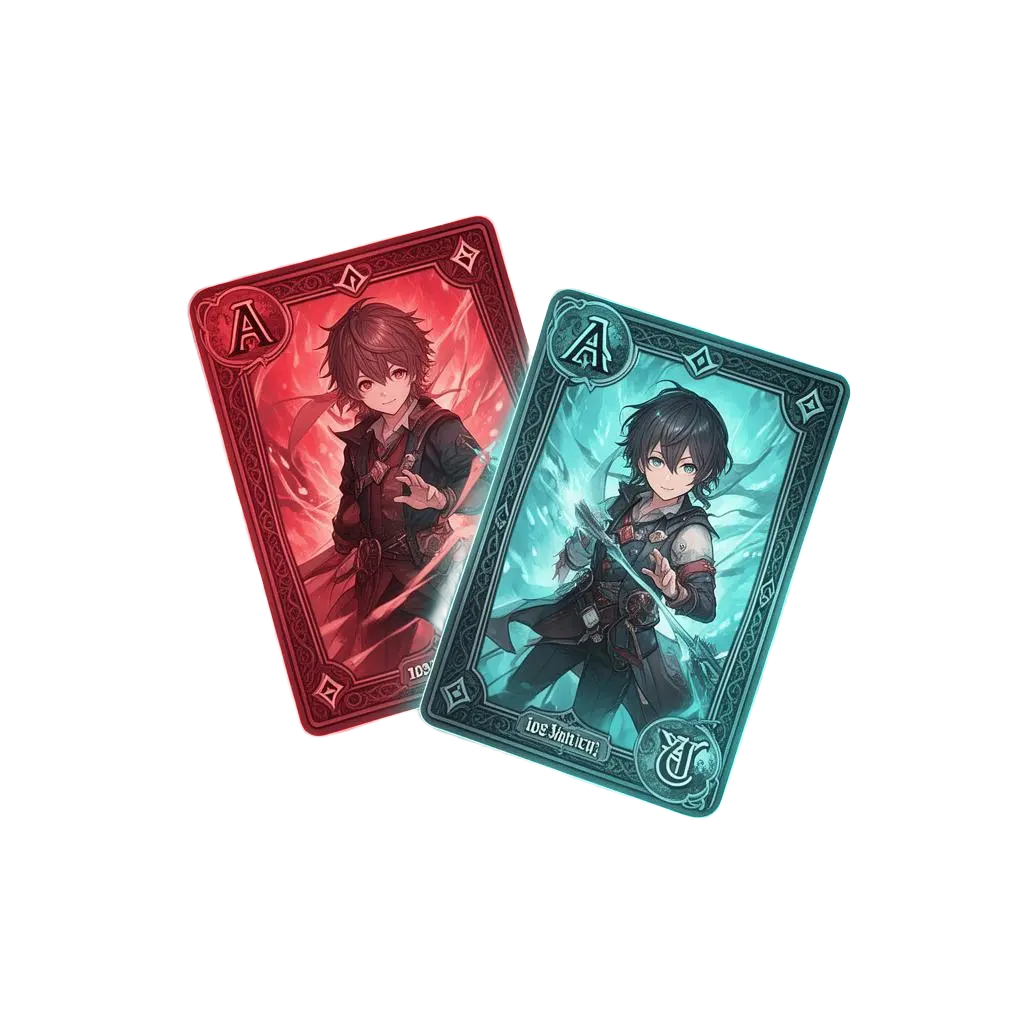
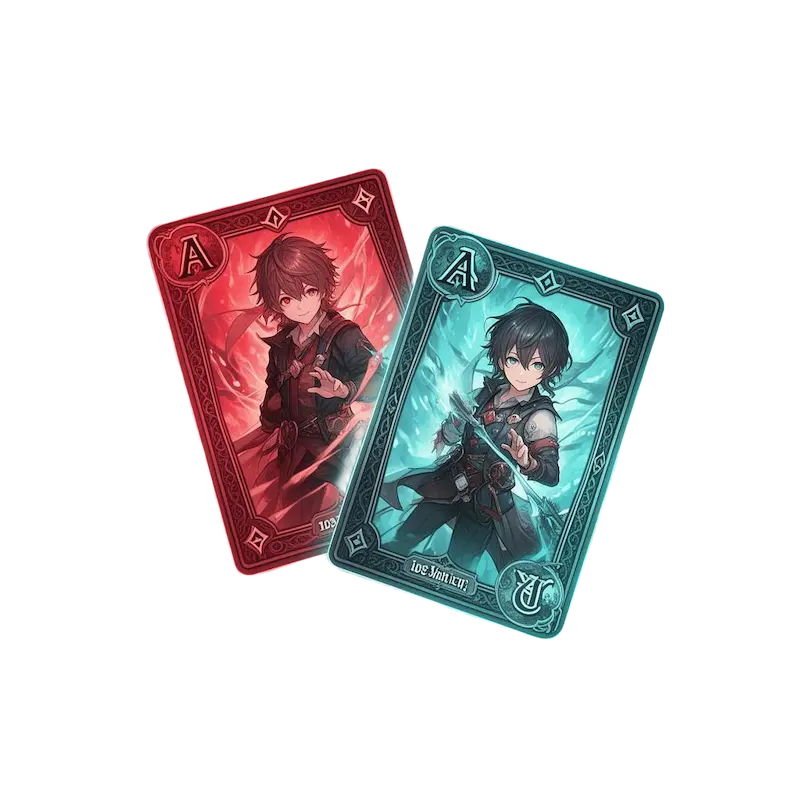
imagen 2

diff --git a/UrChoice/src/Components/HeroSection.jsx b/UrChoice/src/Components/HeroSection.jsx
@@ -19,7 +19,7 @@ const HeroSection = () => {
         <img
           src={heroCards}
           alt="UrChoice cartas coleccionables"
-          width={1000}
+          width={700}
           height={100}
           className="opacity-30 animate-float"
         />
